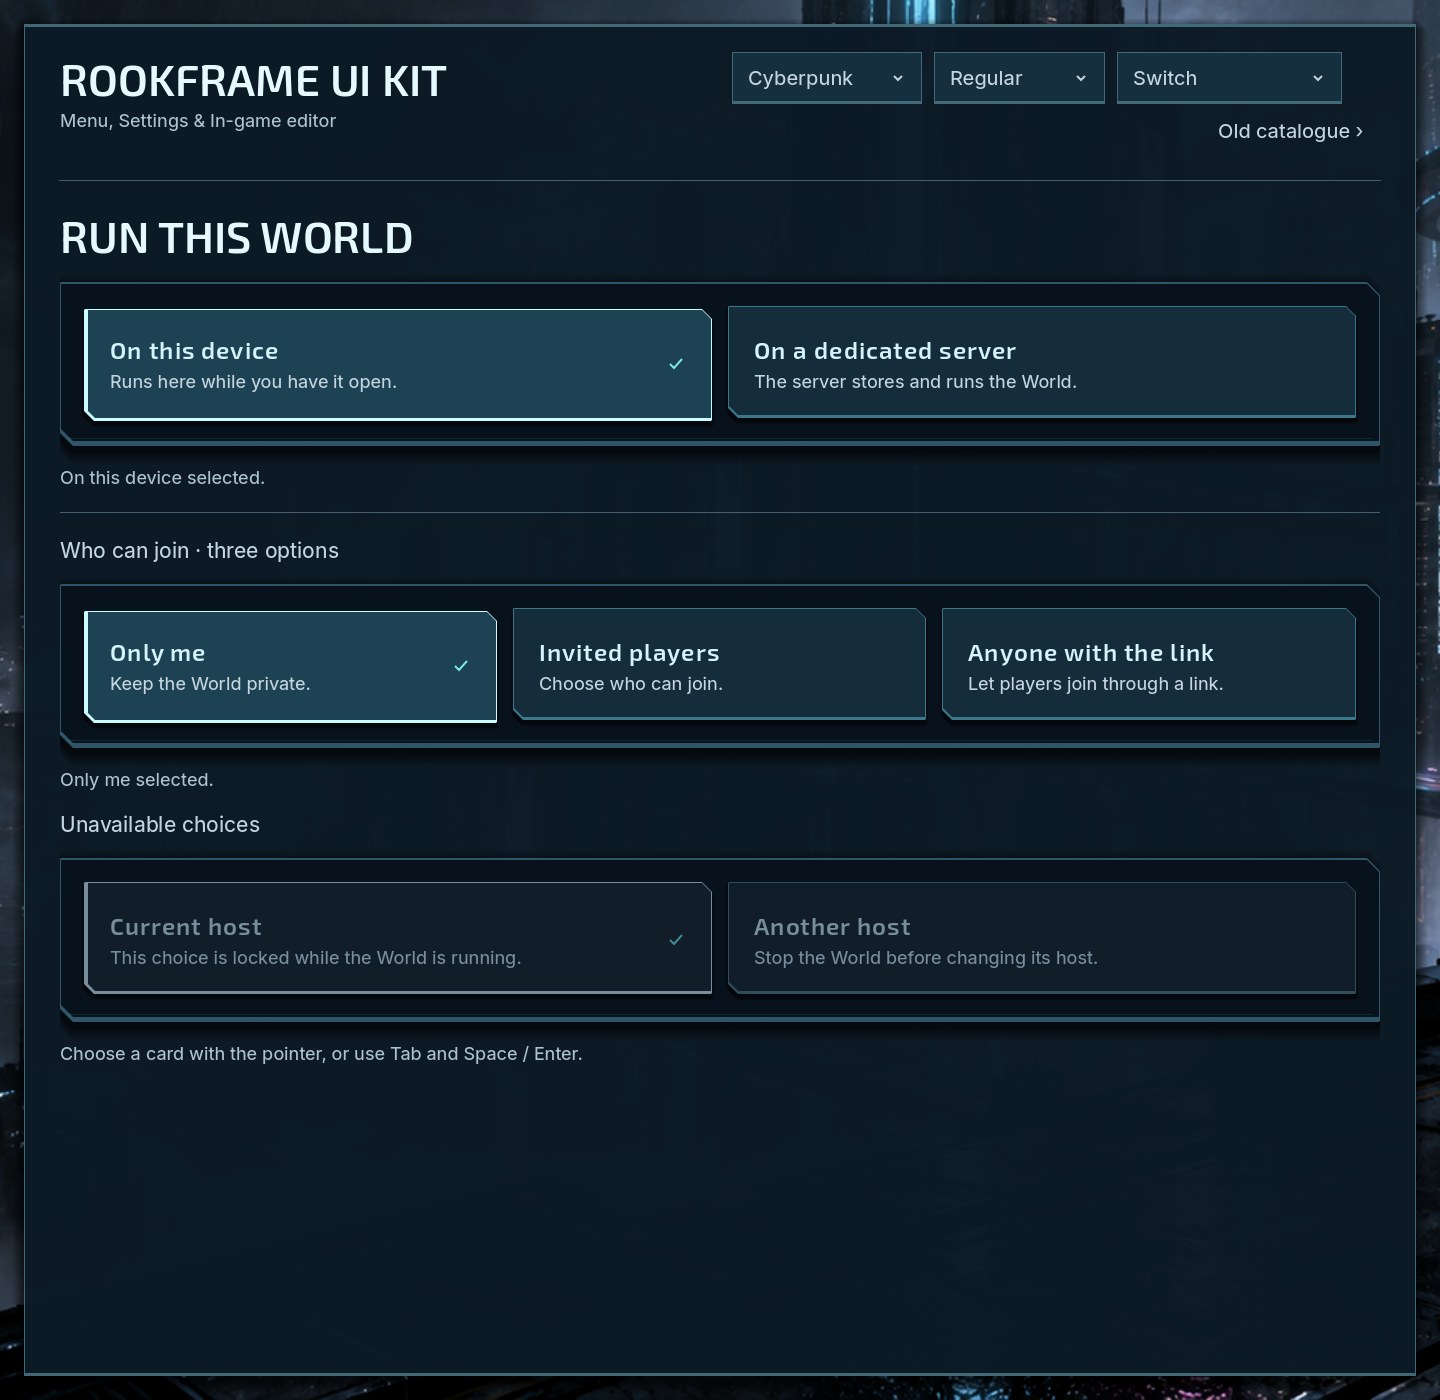
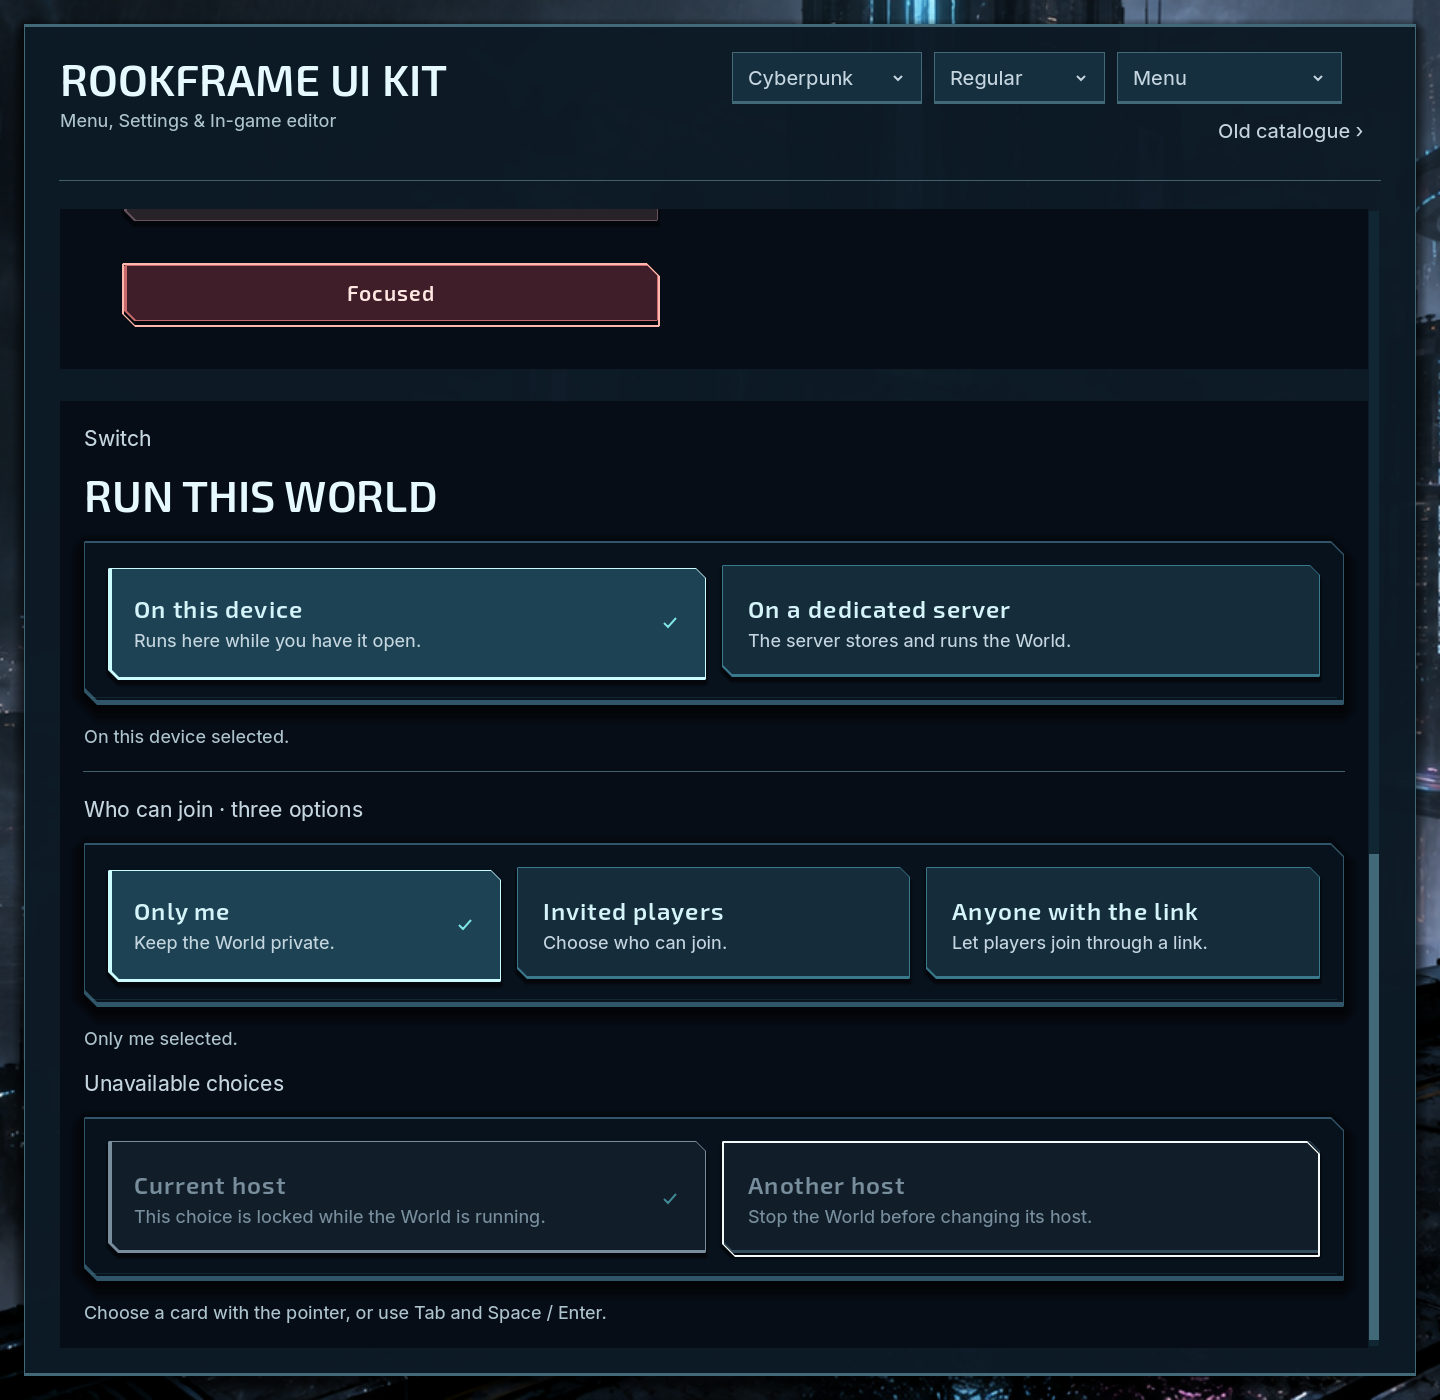
Place Switch after Buttons in the shared Menu showcase

Changed region(s): [[0.0312, 0.1229, 0.9688, 0.9521], [0.7812, 0.0307, 0.8125, 0.0614]]

diff --git a/README.md b/README.md
@@ -92,8 +92,8 @@ Open this repository as a Godot 4.7 project or run it with the pinned toolchain:
 ```
 
 The project opens `examples/catalogue/visual_catalogue.tscn`. The Menu showcase
-stacks Structure-framed sections: Surfaces, then Buttons, with future component
-families appended below. Primary, secondary and destructive buttons retain native Normal,
+stacks Structure-framed sections: Surfaces, Buttons, then Switch, with future
+component families appended below. Primary, secondary and destructive buttons retain native Normal,
 Hovered, Pressed, Hovered + pressed, Disabled and Focused states. Focused previews
 are captured in turn so all appearances remain visible without competing for
 keyboard focus. Their columns
@@ -198,8 +198,9 @@ layout. Set `compact` on the group to update its padding, spacing and cards.
 The corresponding Theme variations are `components_switch_group` and
 `components_switch_options`, with `__compact` variants.
 
-The **Switch** catalogue page demonstrates two- and three-option groups,
-responsive stacking, and disabled selected/unselected states. Run its integration
+The **Switch** section follows Buttons in the Menu showcase and demonstrates
+two- and three-option groups, responsive stacking, and disabled selected/unselected
+states. Run its integration
 check with:
 
 ```sh

diff --git a/docs/evidence/switch/README.md b/docs/evidence/switch/README.md
@@ -1,7 +1,8 @@
 # Switch material and interaction evidence
 
 The two regular-density captures come from `tests/switch.gd` under Godot
-4.7.2, using the current Fantasy and Cyberpunk Themes. Fantasy shares the new
+4.7.2, scrolled to the Switch section after Buttons in the Menu showcase,
+using the shared Structure frame and current Fantasy and Cyberpunk Themes. Fantasy shares the new
 buttons' walnut grain, beveled brass casing and inset lettering. Cyberpunk
 shares the alloy button faces, cut corners, shadow depth and cyan edge signals.
 Related cards sit together in the existing `menu_group` surface: a textured stone
